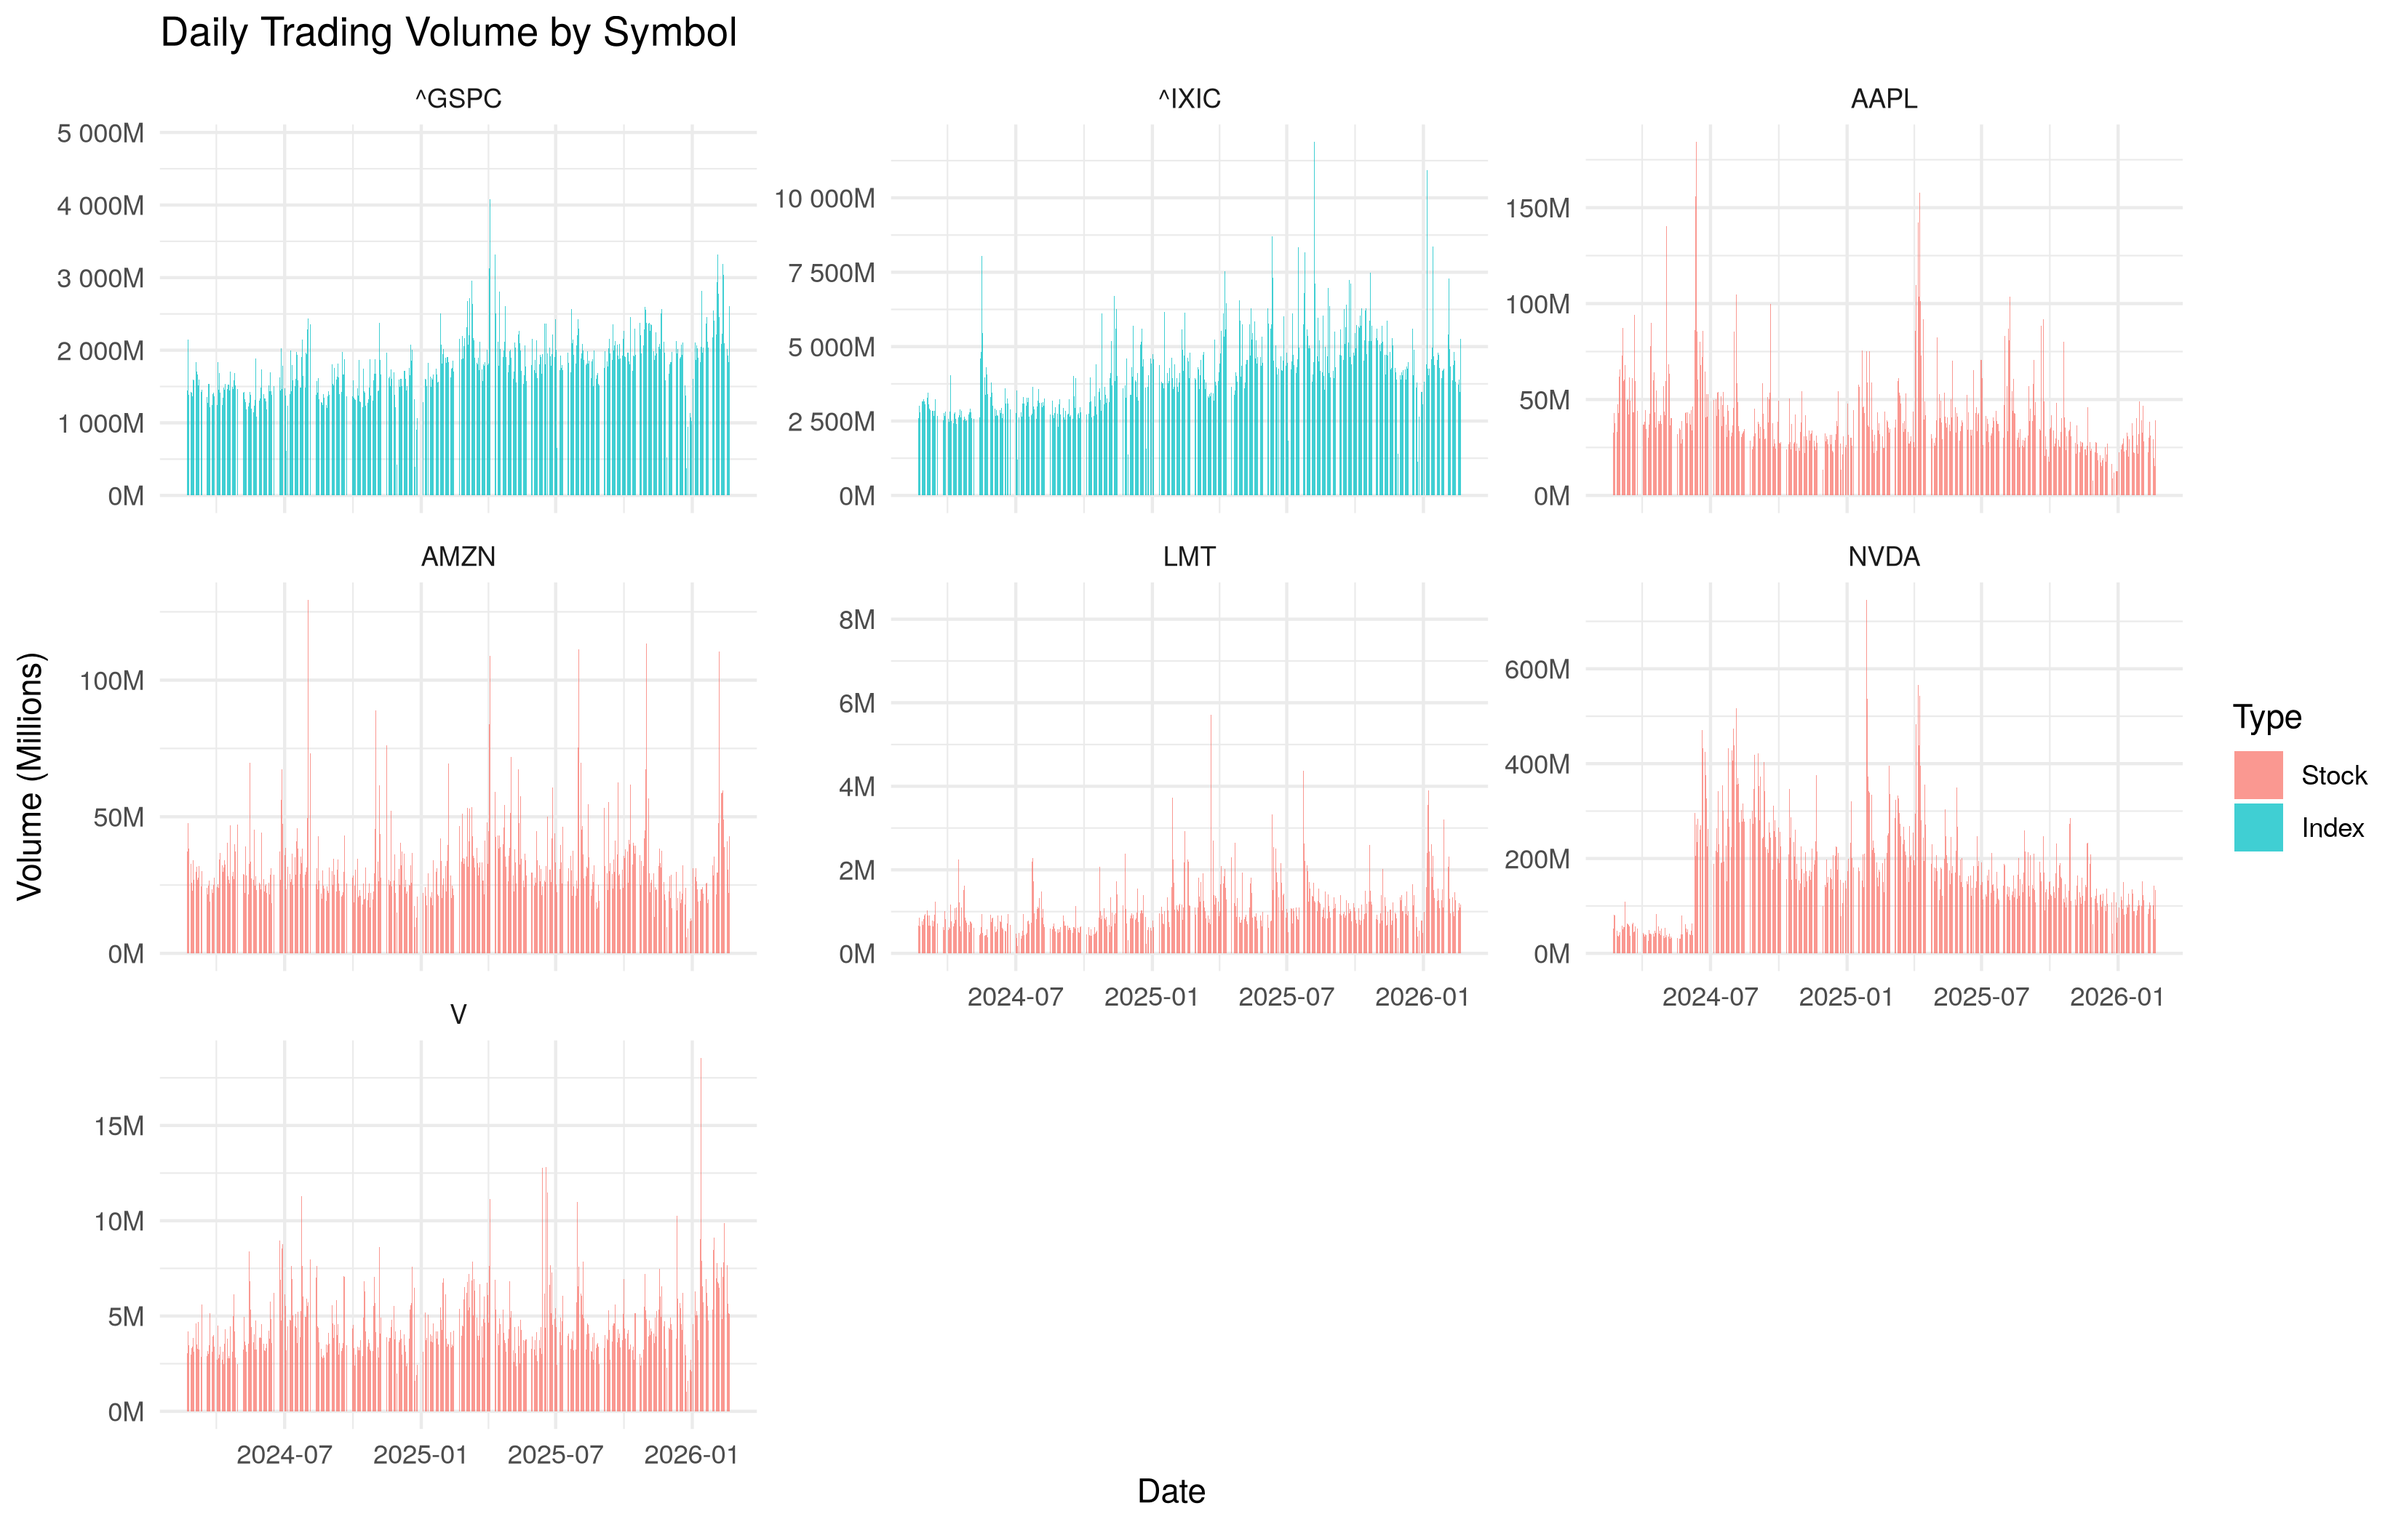
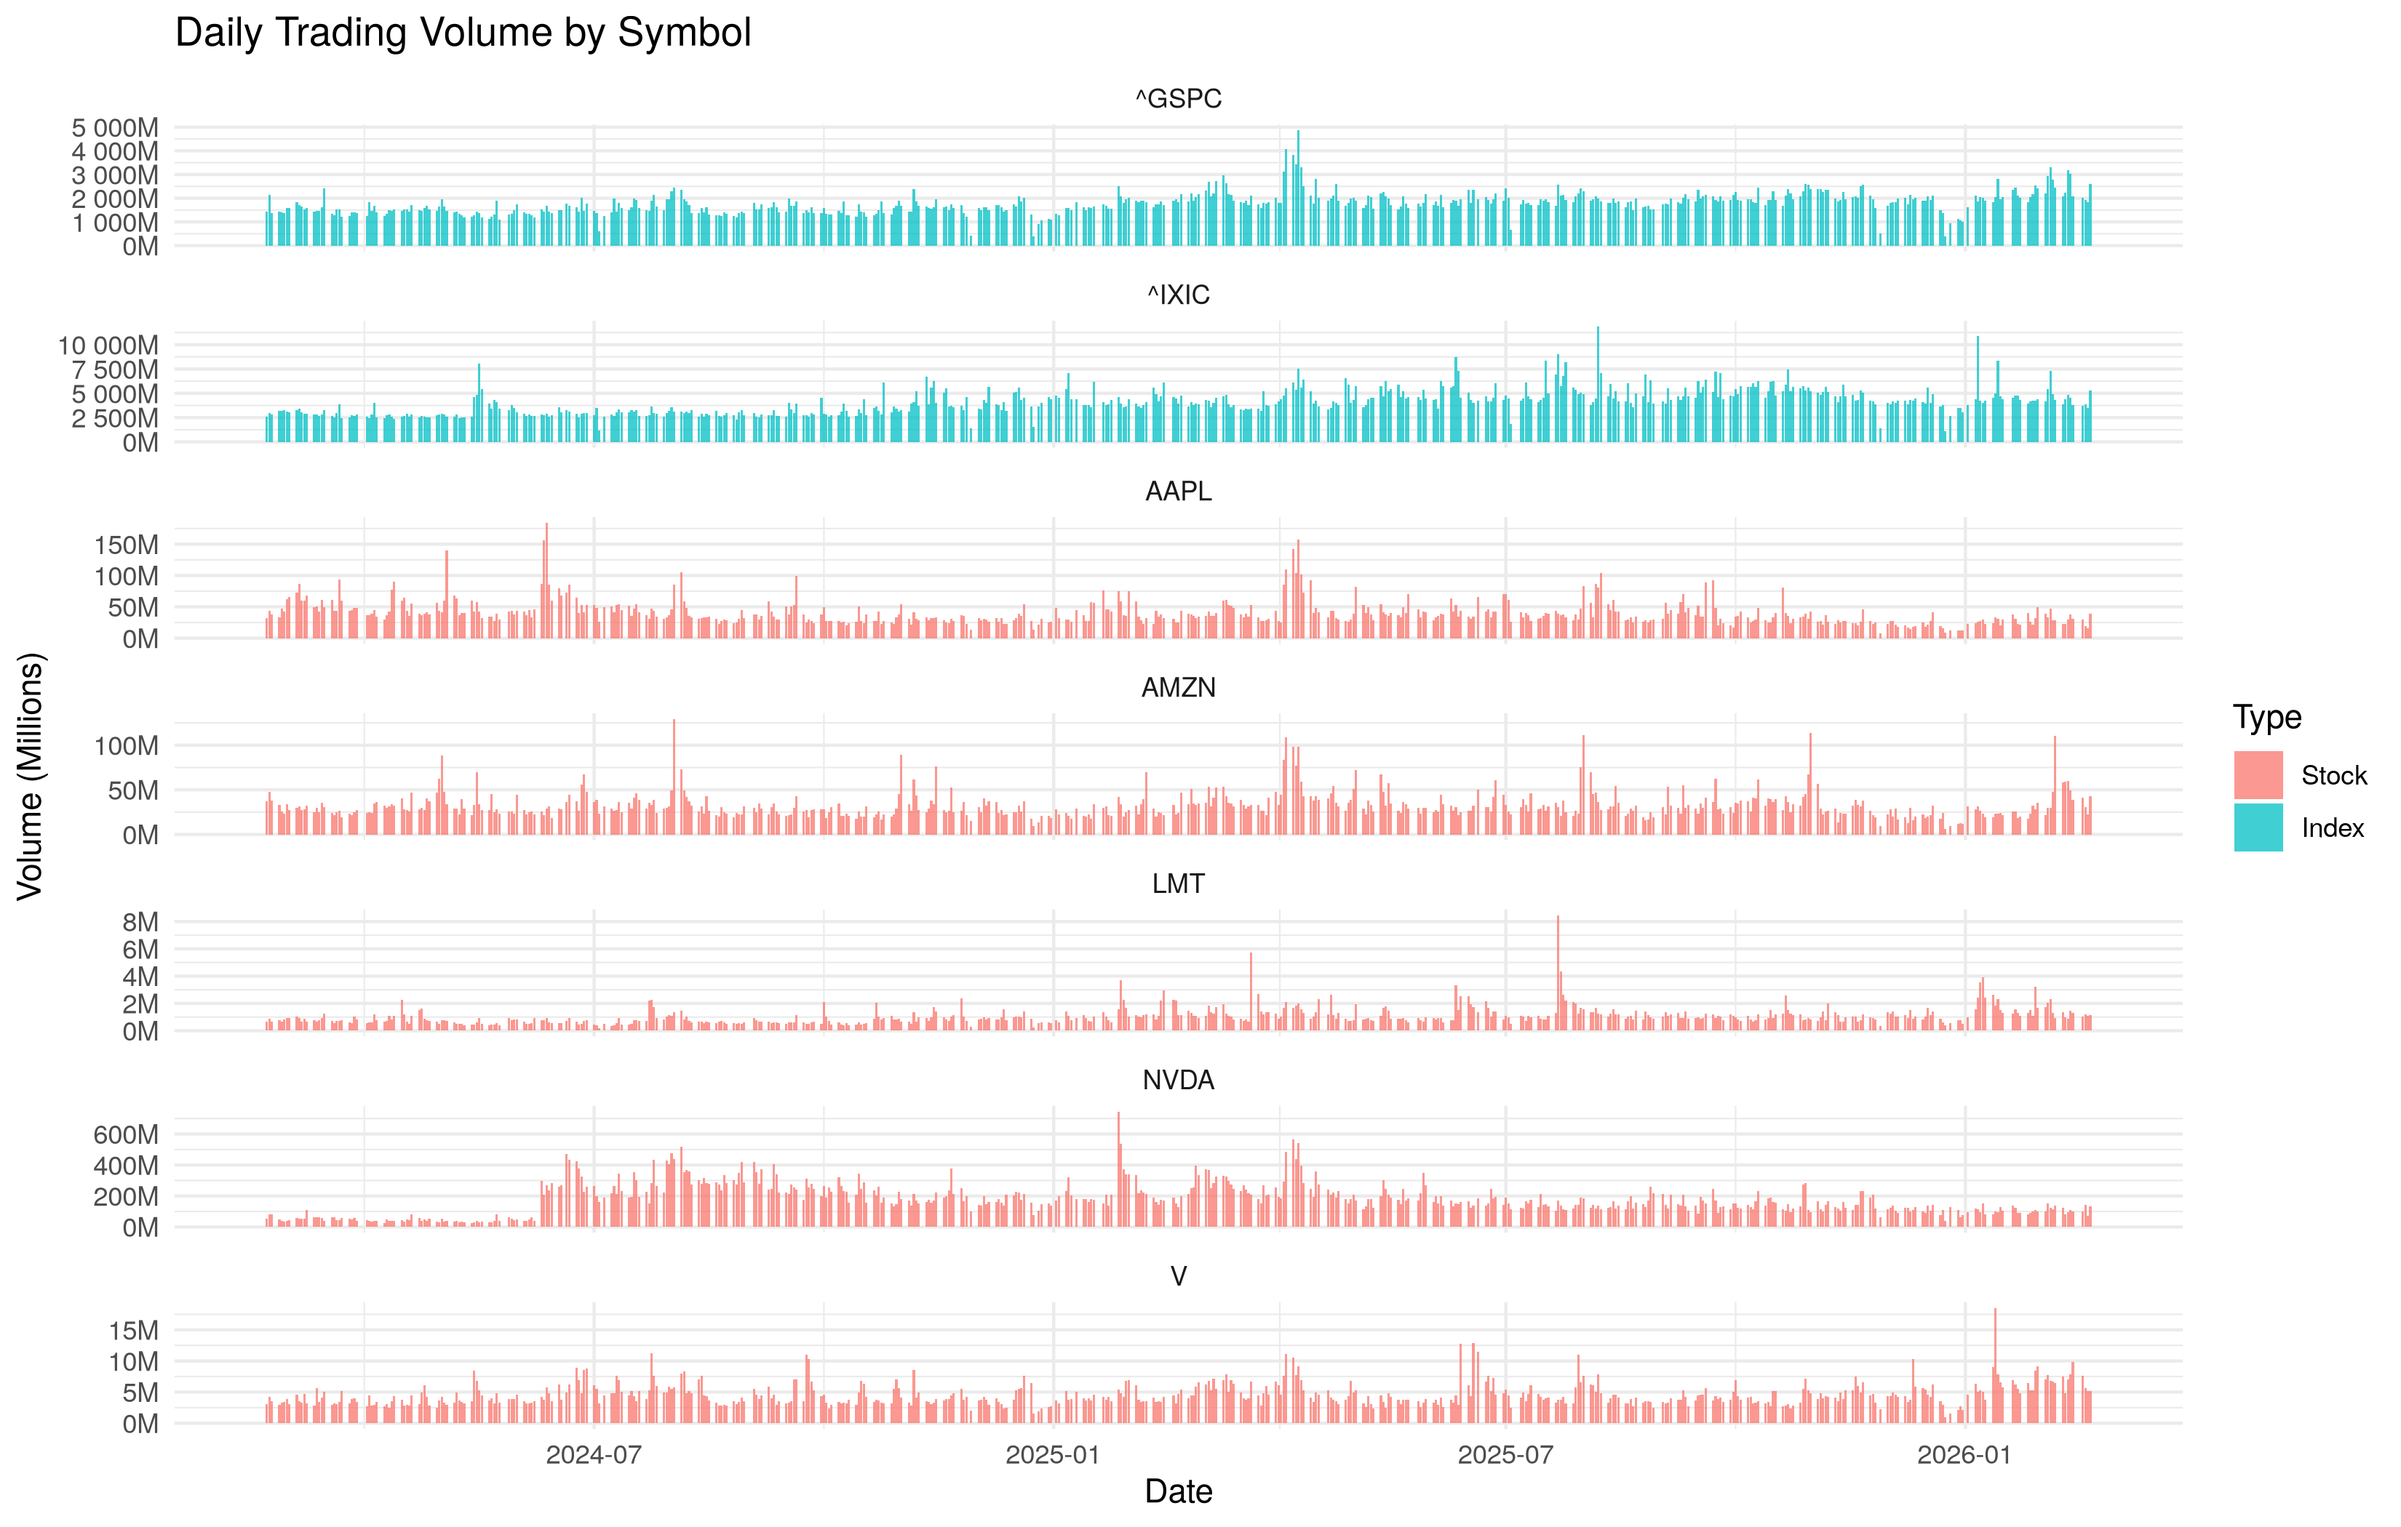
Using ncol 1

diff --git a/Projects/ArminBurkhardt/JoshuaSchlucke.md b/Projects/ArminBurkhardt/JoshuaSchlucke.md
@@ -78,7 +78,7 @@ In its current state, the data is impossible to work with.
 
     volume_plot <- ggplot(daily_data, aes(x = Date, y = Volume, fill = Type)) +
         geom_col(alpha = 0.75) +
-        facet_wrap(~Symbol, scales = "free_y") +
+        facet_wrap(~Symbol, scales = "free_y", ncol = 1) +
         labs(
             title = "Daily Trading Volume by Symbol",
             x = "Date",
@@ -94,17 +94,18 @@ In its current state, the data is impossible to work with.
 
 ## Optional: Candlesticks (stocks only)
 
-Candlestick plot with tidyquant, but still without whiskers because they
-are only shown on short time frames.
+Candlestick plot with tidyquant, but still without whiskers (no matter
+the scaling) because they are only shown on short time frames or really
+zoomed in.
 
     candlestick_plot <- daily_data %>%
         filter(Type == "Stock") %>%
         ggplot(aes(x = Date, open = Open, high = High, low = Low, close = Close)) +
         geom_candlestick(
             colour_up = "#2E8B57", colour_down = "#B22222",
-            fill_up   = "#2E8B57", fill_down  = "#B22222"
+            fill_up   = "#2E8B57", fill_down  = "#B22222", size = 0.8
         ) +
-        facet_wrap(~Symbol, scales = "free_y") +
+        facet_wrap(~Symbol, scales = "free_y", ncol = 1) +
         labs(
             title = "Daily Candlesticks (Stocks Only)",
             x = "Date",
